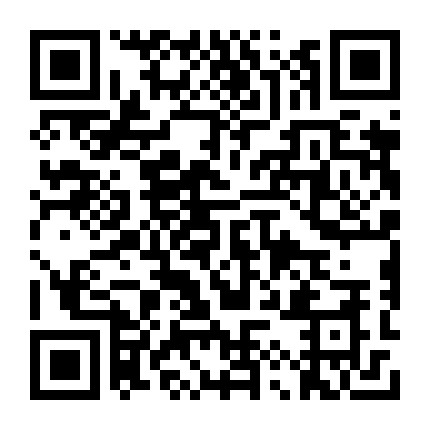
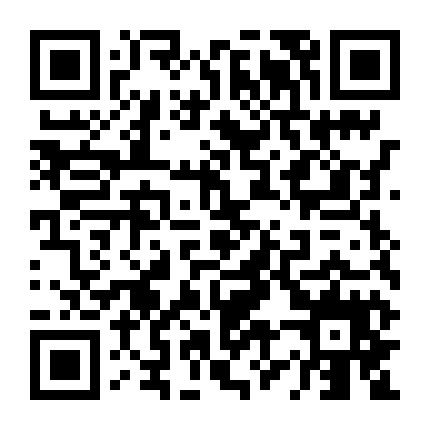
店铺推广码

Changed region(s): [[0.0605, 0.0605, 0.9372, 0.9372], [0.2721, 0.907, 0.3023, 0.9372]]

diff --git a/aspnet-core/src/HC.WeChat.Application/Shops/ShopAppServices.cs b/aspnet-core/src/HC.WeChat.Application/Shops/ShopAppServices.cs
@@ -917,7 +917,7 @@ namespace HC.WeChat.Shops
                 {
                     //生成二维码 
                     var retailer = await _retailerRepository.GetAll().Where(r => r.Id == item.RetailerId).SingleOrDefaultAsync();
-                    var result =await QrCodeApi.CreateAsync(AppConfig.AppId, 0, 0, QrCode_ActionName.QR_LIMIT_STR_SCENE, SceneType.店铺 + "_" + item.Id.ToString());
+                    var result =await QrCodeApi.CreateAsync(AppConfig.AppId, 0, 0, QrCode_ActionName.QR_LIMIT_STR_SCENE, (int)SceneType.店铺 + "_" + item.Id.ToString());
 
                     //下载二维码到本地
                     var imgurl = QrCodeApi.GetShowQrCodeUrl(result.ticket);
@@ -939,7 +939,7 @@ namespace HC.WeChat.Shops
         public async Task<CreateQRResult> GenerateShopCodeAsync(Guid shopId)
         {
             //生成二维码
-            var qrResult = await QrCodeApi.CreateAsync(AppConfig.AppId, 0, 0, QrCode_ActionName.QR_LIMIT_STR_SCENE, SceneType.店铺 + "_" + shopId.ToString());
+            var qrResult = await QrCodeApi.CreateAsync(AppConfig.AppId, 0, 0, QrCode_ActionName.QR_LIMIT_STR_SCENE, (int)SceneType.店铺 + "_" + shopId.ToString());
             var shop = await _shopRepository.GetAll().Where(s => s.Id == shopId).SingleOrDefaultAsync();
             var retailer = await _retailerRepository.GetAll().Where(r => r.Id == shop.RetailerId).SingleOrDefaultAsync();
 
